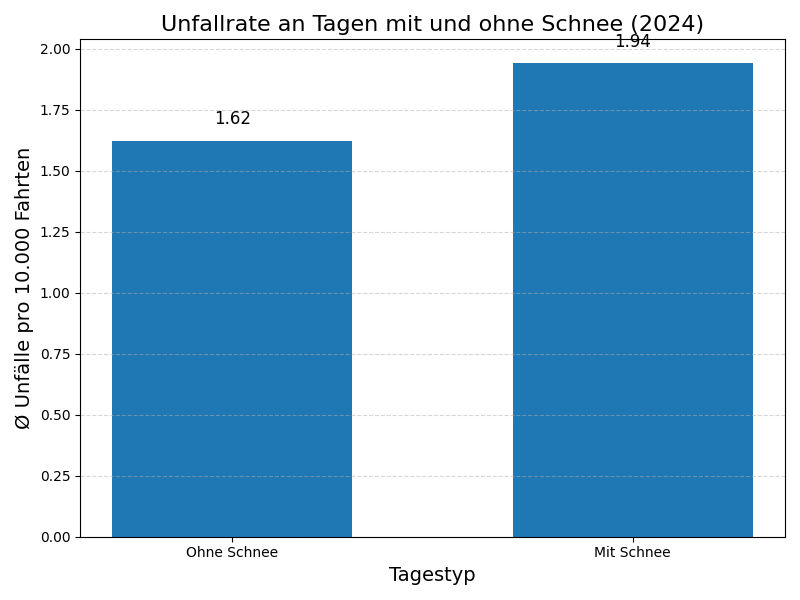
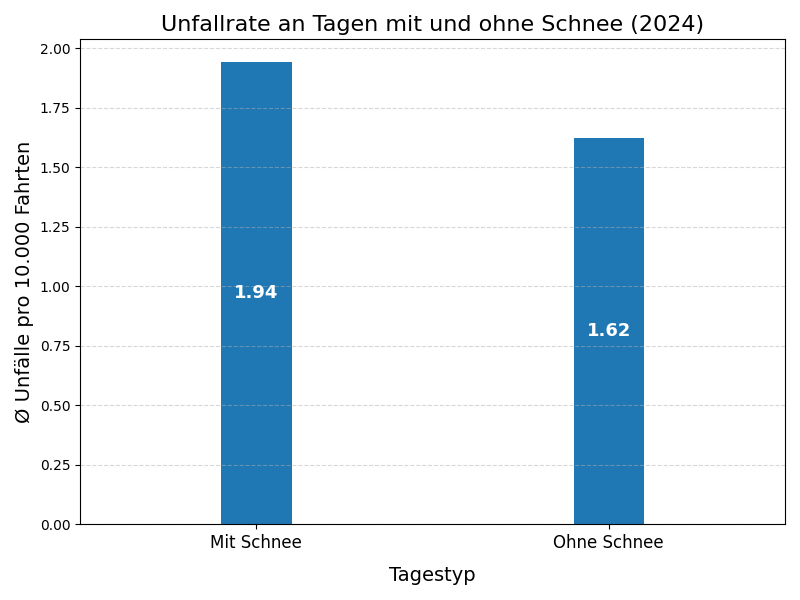
Adjusting Bars in Plot

diff --git a/02_analysis/insurance_bundles.py b/02_analysis/insurance_bundles.py
@@ -2,6 +2,7 @@ import requests
 import pandas as pd
 import matplotlib.pyplot as plt
 import seaborn as sns
+import numpy as np
 from scipy.stats import linregress
 from datetime import datetime
 from sqlalchemy import create_engine
@@ -272,19 +273,27 @@ df['snow_day'] = df['snowfall_sum_cm'] > 0
 # Group by snow_day
 grouped = df.groupby('snow_day')['accidents_per_ride'].mean().reset_index()
 
-# Map True/False to nicer labels
+# Add readable labels
 grouped['snow_label'] = grouped['snow_day'].map({True: 'Mit Schnee', False: 'Ohne Schnee'})
+
+# Change order
+x_pos = np.array([-1, 1])
+grouped = grouped.sort_values('snow_day', ascending=False).reset_index(drop=True)
 
 # Plot
 plt.figure(figsize=(8, 6))
-plt.bar(grouped['snow_label'], grouped['accidents_per_ride'], width=0.6)
+plt.bar(x_pos, grouped['accidents_per_ride'], width=0.4, color="#1f77b4")  # Achtung: hier x_pos statt grouped['snow_label']
 
-plt.xlabel("Tagestyp", fontsize=14)
+plt.xlim(-2, 2)
+plt.xticks(ticks=x_pos, labels=grouped['snow_label'], fontsize=12)
+
+plt.xlabel("Tagestyp", fontsize=14, labelpad=10)
 plt.ylabel("Ø Unfälle pro 10.000 Fahrten", fontsize=14)
 plt.title("Unfallrate an Tagen mit und ohne Schnee (2024)", fontsize=16)
 
 for index, value in enumerate(grouped['accidents_per_ride']):
-    plt.text(index, value + 0.05, f"{value:.2f}", ha='center', va='bottom', fontsize=12)
+    plt.text(x_pos[index], value / 2, f"{value:.2f}", ha='center', va='center',
+             color='white', fontsize=13, fontweight='bold')
 
 plt.grid(axis='y', linestyle='--', alpha=0.5)
 
